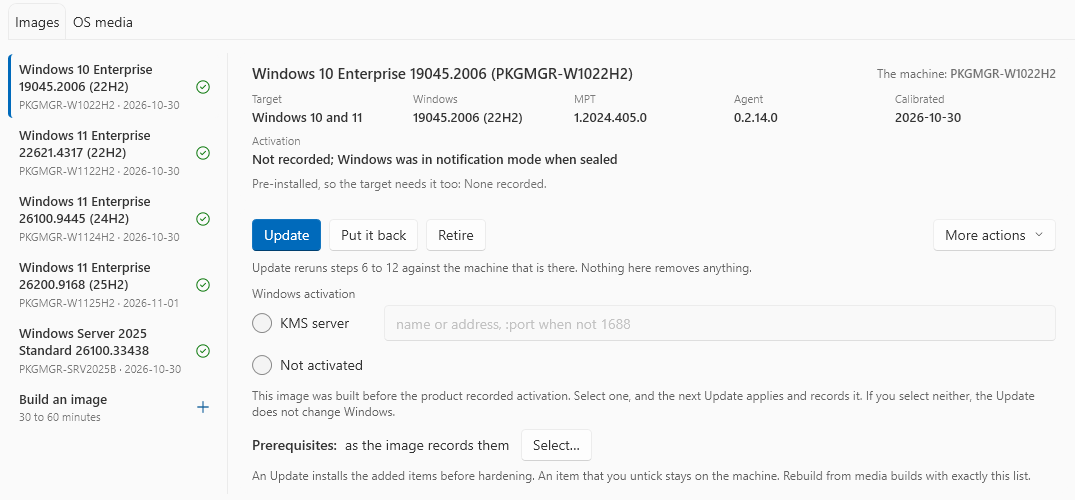
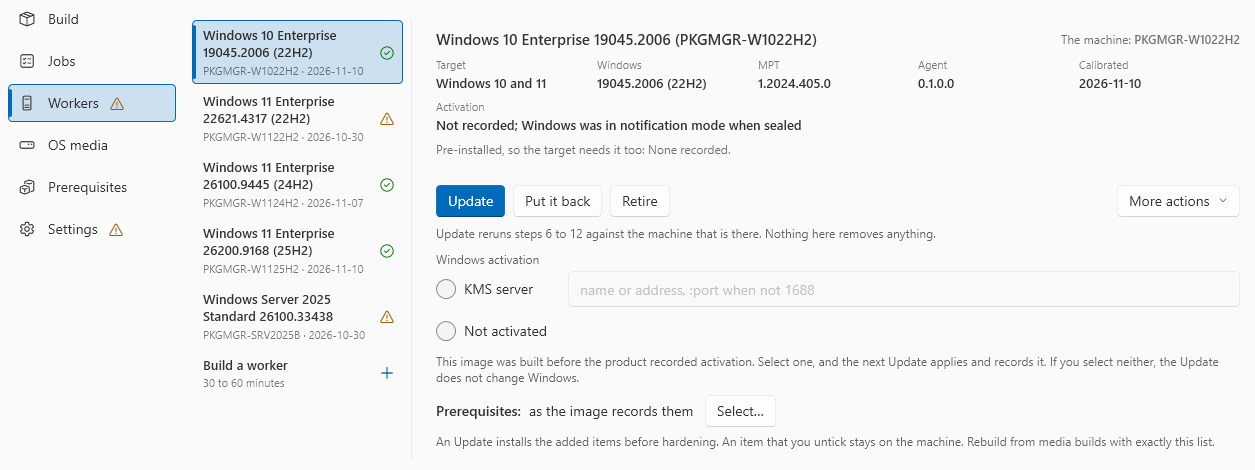
Automated Packaging: new screenshots for Workers, improvement data and job entries (BL-212)

diff --git a/docs/AutomatedPackaging/jobs.md b/docs/AutomatedPackaging/jobs.md
@@ -188,6 +188,8 @@ While `host.json` cannot be used as written, housekeeping removes nothing. The a
 
 **Free up space…**, under the job list on the **Jobs** screen, removes files sooner, of any age. It measures each kind when it opens:
 
+![The Free up space panel: build folders, job logs, exported packages and entries in the Jobs list](images/jobs-free-up-space.png)
+
 - **Build folders of jobs**: the three build folders of each job that still has them.
 - **Job logs**: the logs of each job that ended.
 - **Exported packages in the output folder**: a package in `<workingDir>\Packages\` that its job exported. The product removes it only when it is the same file that was exported, and the copy is still at the export location.
@@ -201,6 +203,8 @@ While `host.json` cannot be used as written, housekeeping removes nothing. The a
 The screen then says how much it removed, and names each item that it kept. You cannot get back what it removed.
 
 **Remove one job from the list.** Right-click a job in the list and click **Remove…**. The same panel opens for that job only, with its entry ticked. Tick what else goes with the entry: its build folders, its logs, and its exported package in the output folder. Then click **Remove selected…** and **Remove**. A file that you do not tick stays in the jobs folder. **Remove…** is not available for a job that still runs, waits or copies its package.
+
+![The panel that Remove… opens for one job: its entry in the Jobs list is ticked](images/jobs-remove-panel.png)
 
 ## What the notes of a package say
 

diff --git a/docs/AutomatedPackaging/convert.md b/docs/AutomatedPackaging/convert.md
@@ -51,6 +51,8 @@ You can see what the product reads from an installer before you start a job.
     - **Identity** shows beside the title. It is remembered. The same application gets the same identity next time, so a new package is an update.
     - **Manifest publisher**, also beside the title, comes from the signing certificate, not from the **Publisher** field.
 
+    ![The Build screen with the 7-Zip EXE selected: publisher, name and version come from the EXE, and the silent arguments are /S](images/build-screen-exe.png)
+
     **Install** shows when you select a file. Each setting has its label above it. A wide window shows three settings in a row, a narrow window two:
 
     | Setting | What it does |

diff --git a/docs/AutomatedPackaging/settings.md b/docs/AutomatedPackaging/settings.md
@@ -178,6 +178,8 @@ An AI agent can write the same file with the MCP tool `collect_support_bundle`. 
 
     Go to **Settings > Diagnostics**, section **Improvement data**. Select **Off**, **Minimal** or **All**. A level above the policy of your organisation is not available. Then the line under the buttons says, for example, "Set by your organisation: Minimal at most."
 
+    ![Settings, Diagnostics, Improvement data: what Minimal and All collect, and the levels Off, Minimal and All](images/settings-improvement-data.png)
+
 === "CLI"
 
     | Command | What it does |

diff --git a/docs/AutomatedPackaging/maintain-images.md b/docs/AutomatedPackaging/maintain-images.md
@@ -32,7 +32,7 @@ An update runs steps 6 to 12 again on the existing machine, and writes the image
     2. Optional: change the KMS server or the prerequisites on the card.
     3. Click **Update**.
 
-    ![The Workers screen, with an image selected and its actions](images/images-screen.png)
+    ![The Workers screen: the workers with Build a worker as the last row, and the card of the selected worker with its actions](images/images-screen.png)
 
 === "CLI"
 
